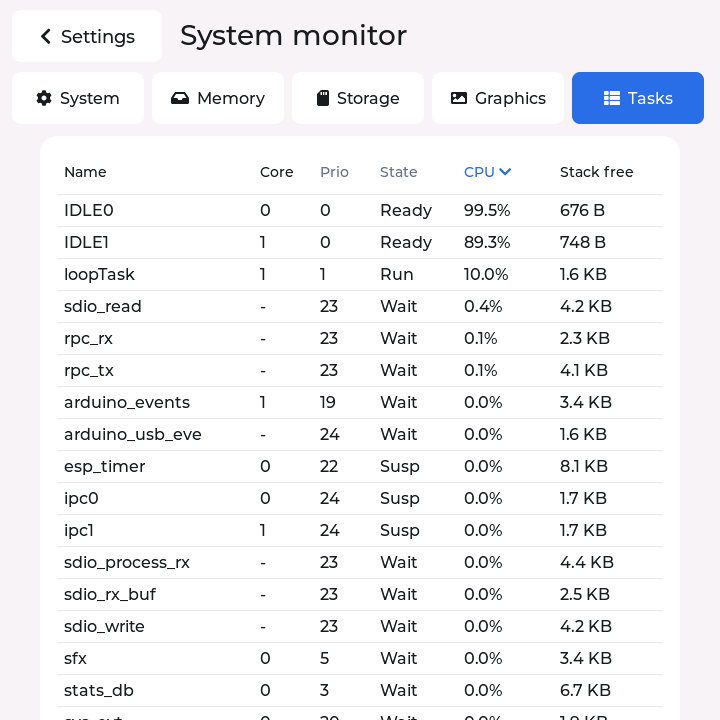
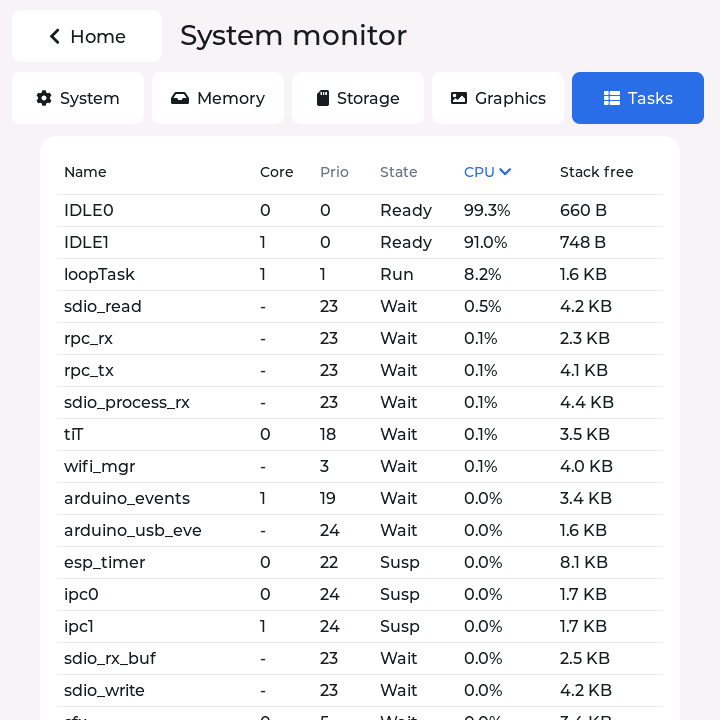
update home page

diff --git a/src/sudoku_ui.c b/src/sudoku_ui.c
@@ -290,8 +290,12 @@ static lv_obj_t *scr_trophy;              /* Trophies: achievements, daily leade
 #define HOME_BTN_H      80
 #define HOME_GAP        14
 #define HOME_MENU_MAX_H 470      /* room under the clock, title and count */
-static lv_obj_t *h_menu;
-static int h_menu_grid;                   /* 1 = grid, 0 = column, -1 = not laid out */
+static lv_obj_t *h_menu;                  /* the pages, side by side: swipe between them */
+static int h_menu_grid;                   /* layout signature (home_layout), -1 = not laid out */
+#define HOME_PAGES_MAX 3
+static lv_obj_t *h_page[HOME_PAGES_MAX], *h_dots;
+static lv_obj_t *h_items[16];             /* the menu buttons, in order */
+static int h_nitems, h_npages;
 static lv_obj_t *h_total, *h_continue, *h_continue_sub, *h_clock, *h_date, *h_player, *h_daily_sub, *h_daily;
 
 /* history screen */
@@ -4325,21 +4329,61 @@ static void coll_click_cb(lv_event_t *e)
     list_reveal_coll(LV_ANIM_ON);
 }
 
-/* Home menu: a column of full-width buttons while they fit between the
- * header and the bottom of the screen, otherwise a grid of two per row. */
+/* the dots under the menu (small circles, the page shown in the accent colour) */
+static void home_dots(void)
+{
+    if (!h_dots) return;
+    lv_obj_set_hidden(h_dots, h_npages < 2);
+    if (h_npages < 2) return;
+    int cur = (int)((lv_obj_get_scroll_x(h_menu) + HOME_GRID_W / 2) / HOME_GRID_W);
+    for (int p = 0; p < HOME_PAGES_MAX; p++) {
+        lv_obj_t *d = lv_obj_get_child(h_dots, p);
+        lv_obj_set_hidden(d, p >= h_npages);
+        lv_obj_set_style_bg_color(d, p == cur ? C_ACCENT : C_CARD2, 0);
+    }
+}
+
+static void home_scroll_cb(lv_event_t *e)
+{
+    home_dots();
+}
+
+/* Home menu: a column of full-width buttons while they fit between the header and the
+ * bottom of the screen; otherwise a grid of two per row; and when even that doesn't fit,
+ * pages of the grid side by side, swiped between, with dots under them. */
 static void home_layout(void)
 {
+    lv_obj_t *vis[16];
     int n = 0;
-    uint32_t cnt = lv_obj_get_child_count(h_menu);
-    for (uint32_t i = 0; i < cnt; i++) n += !lv_obj_is_hidden(lv_obj_get_child(h_menu, i));
-    int grid = n * HOME_BTN_H + (n - 1) * HOME_GAP > HOME_MENU_MAX_H;
-    if (grid == h_menu_grid) return;
-    h_menu_grid = grid;
-    lv_obj_set_flex_flow(h_menu, grid ? LV_FLEX_FLOW_ROW_WRAP : LV_FLEX_FLOW_COLUMN);
-    lv_obj_set_flex_align(h_menu, LV_FLEX_ALIGN_START, LV_FLEX_ALIGN_CENTER, LV_FLEX_ALIGN_CENTER);
-    for (uint32_t i = 0; i < cnt; i++) {
-        lv_obj_set_width(lv_obj_get_child(h_menu, i), grid ? (HOME_GRID_W - HOME_GAP) / 2 : HOME_COL_W);
+    for (int i = 0; i < h_nitems; i++) if (!lv_obj_is_hidden(h_items[i])) vis[n++] = h_items[i];
+    const int rows = (HOME_MENU_MAX_H + HOME_GAP) / (HOME_BTN_H + HOME_GAP);   /* that fit under the header */
+    bool grid = n > rows;
+    int per_page = grid ? rows * 2 : rows;
+    int npages = (n + per_page - 1) / per_page;
+    if (npages > HOME_PAGES_MAX) npages = HOME_PAGES_MAX;
+    int sig = (grid ? 1000 : 0) + n * 10 + npages;      /* (the same layout: nothing to do) */
+    if (sig == h_menu_grid) return;
+    h_menu_grid = sig;
+    h_npages = npages;
+    for (int p = 0; p < HOME_PAGES_MAX; p++) {
+        lv_obj_set_flex_flow(h_page[p], grid ? LV_FLEX_FLOW_ROW_WRAP : LV_FLEX_FLOW_COLUMN);
+        lv_obj_set_flex_align(h_page[p], LV_FLEX_ALIGN_START, LV_FLEX_ALIGN_CENTER, LV_FLEX_ALIGN_START);
+        lv_obj_set_hidden(h_page[p], p >= npages);
     }
+    for (int i = 0; i < h_nitems; i++) {               /* hidden ones wait on page 1 */
+        if (lv_obj_is_hidden(h_items[i])) lv_obj_set_parent(h_items[i], h_page[0]);
+    }
+    for (int k = 0; k < n; k++) {
+        int p = k / per_page;
+        if (p >= npages) p = npages - 1;
+        lv_obj_set_parent(vis[k], h_page[p]);
+        lv_obj_move_to_index(vis[k], -1);              /* (in order on its page) */
+        lv_obj_set_width(vis[k], grid ? (HOME_GRID_W - HOME_GAP) / 2 : HOME_COL_W);
+    }
+    lv_obj_set_scrollable(h_menu, npages > 1);
+    lv_obj_update_layout(h_menu);
+    if (lv_obj_get_scroll_x(h_menu) > (npages - 1) * HOME_GRID_W) lv_obj_scroll_to_x(h_menu, 0, LV_ANIM_OFF);
+    home_dots();
 }
 
 static void refresh_home(void)
@@ -7042,6 +7086,8 @@ static void build_profile(void)
 static void build_game(void);
 static void build_list(void);
 static void build_home(void);
+static void files_open_cb(lv_event_t *e);
+static void sysmon_open_cb(lv_event_t *e);
 static void build_stats(void);
 static void build_settings(void);
 static void build_wifi(void);
@@ -7420,6 +7466,7 @@ static void build_list(void)
 static lv_obj_t *home_btn(lv_obj_t *parent, const char *text, lv_event_cb_t cb, lv_obj_t **sub)
 {
     lv_obj_t *b = make_btn(parent, 0, 0, HOME_COL_W, HOME_BTN_H, NULL, NULL, cb, NULL);
+    if (h_nitems < (int)(sizeof(h_items) / sizeof(h_items[0]))) h_items[h_nitems++] = b;   /* (the menu's order) */
     lv_obj_t *l = make_label(b, &lv_font_montserrat_24, C_TEXT);
     lv_label_set_text(l, text);
     if (sub) {
@@ -7464,37 +7511,69 @@ static void build_home(void)
     h_total = make_label(col, &lv_font_montserrat_16, C_MUTED);
     lv_obj_set_style_margin_bottom(h_total, 22, 0);
 
-    /* the menu: one column, or a grid when they don't all fit (home_layout) */
+    /* the menu: one column, a grid, or pages of the grid to swipe (home_layout) */
     h_menu = lv_obj_create(col);
     lv_obj_remove_style_all(h_menu);
     lv_obj_set_size(h_menu, HOME_GRID_W, LV_SIZE_CONTENT);
-    lv_obj_set_style_pad_row(h_menu, HOME_GAP, 0);
-    lv_obj_set_style_pad_column(h_menu, HOME_GAP, 0);
+    lv_obj_set_flex_flow(h_menu, LV_FLEX_FLOW_ROW);
+    lv_obj_set_scroll_dir(h_menu, LV_DIR_HOR);
+    lv_obj_set_scroll_snap_x(h_menu, LV_SCROLL_SNAP_START);
+    lv_obj_set_scroll_one(h_menu, true);                /* a swipe moves one page */
+    lv_obj_set_scrollbar_mode(h_menu, LV_SCROLLBAR_MODE_OFF);
+    lv_obj_add_event_cb(h_menu, home_scroll_cb, LV_EVENT_SCROLL_END, NULL);
+    for (int p = 0; p < HOME_PAGES_MAX; p++) {
+        h_page[p] = lv_obj_create(h_menu);
+        lv_obj_remove_style_all(h_page[p]);
+        lv_obj_set_size(h_page[p], HOME_GRID_W, LV_SIZE_CONTENT);
+        lv_obj_set_style_pad_row(h_page[p], HOME_GAP, 0);
+        lv_obj_set_style_pad_column(h_page[p], HOME_GAP, 0);
+        lv_obj_set_scrollable(h_page[p], false);
+    }
     h_menu_grid = -1;                                   /* not laid out yet */
+    h_nitems = 0;
+    lv_obj_t *const menu = h_page[0];                   /* (home_layout sorts them onto the pages) */
 
     /* who is playing, first */
-    lv_obj_t *pb = home_btn(h_menu, SYMBOL_USER "  Players", profile_cb, &h_player);   /* sub: "Playing as ..." */
+    lv_obj_t *pb = home_btn(menu, SYMBOL_USER "  Players", profile_cb, &h_player);   /* sub: "Playing as ..." */
     lv_obj_set_style_text_font(lv_obj_get_child(pb, 0), &font_icons_24, 0);
 
     /* hidden when there is no game in progress; the flex column closes up */
-    h_continue = home_btn(h_menu, LV_SYMBOL_PLAY "  Continue", continue_cb, &h_continue_sub);
+    h_continue = home_btn(menu, LV_SYMBOL_PLAY "  Continue", continue_cb, &h_continue_sub);
     lv_obj_set_style_bg_color(h_continue, C_LIST_ACTIVE, 0);
     lv_obj_set_style_text_color(lv_obj_get_child(h_continue, 0), lv_color_white(), 0);
     lv_obj_set_style_text_color(h_continue_sub, lv_color_white(), 0);
     lv_obj_set_style_text_opa(h_continue_sub, LV_OPA_80, 0);
 
-    home_btn(h_menu, LV_SYMBOL_LIST "  Puzzles", puzzles_cb, NULL);
-    h_daily = home_btn(h_menu, LV_SYMBOL_BELL "  Daily puzzle", daily_cb, &h_daily_sub);
+    home_btn(menu, LV_SYMBOL_LIST "  Puzzles", puzzles_cb, NULL);
+    h_daily = home_btn(menu, LV_SYMBOL_BELL "  Daily puzzle", daily_cb, &h_daily_sub);
     lv_obj_set_style_bg_opa(h_daily, LV_OPA_40, LV_STATE_DISABLED);       /* greyed out until the clock is set */
     lv_obj_set_style_text_opa(h_daily, LV_OPA_40, LV_STATE_DISABLED);
-    home_btn(h_menu, LV_SYMBOL_BARS "  Statistics", stats_cb, NULL);
-    lv_obj_t *hb = home_btn(h_menu, SYMBOL_CALENDAR "  History", history_cb, NULL);   /* the calendar of games */
+    home_btn(menu, LV_SYMBOL_BARS "  Statistics", stats_cb, NULL);
+    lv_obj_t *hb = home_btn(menu, SYMBOL_CALENDAR "  History", history_cb, NULL);   /* the calendar of games */
     lv_obj_set_style_text_font(lv_obj_get_child(hb, 0), &font_icons_24, 0);
-    home_btn(h_menu, LV_SYMBOL_VIDEO "  Gameplays", plays_cb, NULL);
-    lv_obj_t *tb = home_btn(h_menu, SYMBOL_TROPHY "  Trophies", trophy_cb, &h_trophy_sub);   /* achievements, leaderboard */
+    home_btn(menu, LV_SYMBOL_VIDEO "  Gameplays", plays_cb, NULL);
+    lv_obj_t *tb = home_btn(menu, SYMBOL_TROPHY "  Trophies", trophy_cb, &h_trophy_sub);   /* achievements, leaderboard */
     lv_obj_set_style_text_font(lv_obj_get_child(tb, 0), &font_icons_24, 0);
     lv_label_set_text(h_trophy_sub, stats_db_ready() ? "Achievements and daily leaderboard" : "Needs a microSD card");
-    home_btn(h_menu, LV_SYMBOL_SETTINGS "  Settings", settings_cb, NULL);
+    home_btn(menu, LV_SYMBOL_SETTINGS "  Settings", settings_cb, NULL);
+    home_btn(menu, LV_SYMBOL_DIRECTORY "  Files", files_open_cb, NULL);              /* the microSD card */
+    lv_obj_t *sb = home_btn(menu, SYMBOL_CHART "  System", sysmon_open_cb, NULL);    /* system monitor */
+    lv_obj_set_style_text_font(lv_obj_get_child(sb, 0), &font_icons_24, 0);
+
+    h_dots = lv_obj_create(scr_home);                    /* page dots (home_dots) */
+    lv_obj_remove_style_all(h_dots);
+    lv_obj_set_size(h_dots, LV_SIZE_CONTENT, 12);
+    lv_obj_set_flex_flow(h_dots, LV_FLEX_FLOW_ROW);
+    lv_obj_set_style_pad_column(h_dots, 12, 0);
+    for (int p = 0; p < HOME_PAGES_MAX; p++) {
+        lv_obj_t *d = lv_obj_create(h_dots);
+        lv_obj_remove_style_all(d);
+        lv_obj_set_size(d, 12, 12);
+        lv_obj_set_style_radius(d, LV_RADIUS_CIRCLE, 0);
+        lv_obj_set_style_bg_opa(d, LV_OPA_COVER, 0);
+    }
+    lv_obj_align(h_dots, LV_ALIGN_BOTTOM_MID, 0, -26);
+    lv_obj_set_hidden(h_dots, true);
 
     lv_obj_t *src = make_label(scr_home, &lv_font_montserrat_12, C_MUTED);
     lv_label_set_text(src, "Puzzles: opensudoku.gitlab.io");
@@ -7690,8 +7769,7 @@ static void sysmon_open_cb(lv_event_t *e)
 static void sysmon_back_cb(lv_event_t *e)
 {
     sysmon_ui_set_shown(false);
-    st_select_tab(ST_DATA);                         /* back to the tab it was opened from */
-    lv_screen_load(scr_settings);
+    lv_screen_load(scr_home);                       /* (opened from the Home menu) */
 }
 
 static void files_open_cb(lv_event_t *e)
@@ -7703,8 +7781,7 @@ static void files_open_cb(lv_event_t *e)
 static void files_back_cb(lv_event_t *e)
 {
     file_ui_set_shown(false);
-    st_select_tab(ST_DATA);
-    lv_screen_load(scr_settings);
+    lv_screen_load(scr_home);                       /* (opened from the Home menu) */
 }
 
 static lv_obj_t *settings_row(lv_obj_t *parent, const char *title, const char *hint)
@@ -7899,14 +7976,6 @@ static void build_settings(void)
     lv_obj_align(st_sd_btn, LV_ALIGN_RIGHT_MID, 0, 0);
     if (s_sd_state == SD_FORMATTING) sd_btn_text("Formatting...", false);
 
-    /* files on the card: the whole card opens the Files screen */
-    r = settings_row(col, "Files", "Browse the card: rename or delete files");
-    lv_obj_set_clickable(r, true);
-    lv_obj_set_style_bg_color(r, C_CARD2, LV_STATE_PRESSED);
-    lv_obj_add_event_cb(r, files_open_cb, LV_EVENT_CLICKED, NULL);
-    chev = make_label(r, &lv_font_montserrat_20, C_MUTED);
-    lv_label_set_text(chev, LV_SYMBOL_RIGHT);
-    lv_obj_align(chev, LV_ALIGN_RIGHT_MID, 0, 0);
 
     r = settings_row(col, "USB drive", "");
     st_usb_hint = lv_obj_get_child(r, 1);
@@ -7935,15 +8004,6 @@ static void build_settings(void)
     lv_obj_t *ex = make_btn(r, 0, 0, 160, 52, LV_SYMBOL_SAVE "  Export", &lv_font_montserrat_18, export_cb, NULL);
     lv_obj_set_style_bg_color(ex, C_CARD2, 0);
     lv_obj_align(ex, LV_ALIGN_RIGHT_MID, 0, 0);
-
-    /* system monitor: the whole card opens it, as Wi-Fi's */
-    r = settings_row(col, "System monitor", "Memory, storage, CPU temperature, tasks, LVGL");
-    lv_obj_set_clickable(r, true);
-    lv_obj_set_style_bg_color(r, C_CARD2, LV_STATE_PRESSED);
-    lv_obj_add_event_cb(r, sysmon_open_cb, LV_EVENT_CLICKED, NULL);
-    chev = make_label(r, &lv_font_montserrat_20, C_MUTED);
-    lv_label_set_text(chev, LV_SYMBOL_RIGHT);
-    lv_obj_align(chev, LV_ALIGN_RIGHT_MID, 0, 0);
 
     r = settings_row(col, "Factory reset", "Settings, Wi-Fi network, players and statistics");
     lv_obj_t *fr = make_btn(r, 0, 0, 160, 52, LV_SYMBOL_WARNING "  Reset", &lv_font_montserrat_18,

diff --git a/src/file_ui.c b/src/file_ui.c
@@ -548,7 +548,7 @@ void file_ui_create(lv_obj_t *scr, lv_event_cb_t back_cb)
     lv_obj_set_style_shadow_width(back, 0, 0);
     lv_obj_set_style_radius(back, 8, 0);
     lv_obj_add_event_cb(back, back_cb, LV_EVENT_CLICKED, NULL);
-    lv_obj_center(label(back, &lv_font_montserrat_18, C_TEXT, LV_SYMBOL_LEFT "  Settings"));
+    lv_obj_center(label(back, &lv_font_montserrat_18, C_TEXT, LV_SYMBOL_LEFT "  Home"));
     lv_obj_set_pos(label(scr, &lv_font_montserrat_28, C_TEXT, "Files"), 180, 20);
 
     lv_obj_t *refresh = icon_btn(scr, LV_SYMBOL_REFRESH, C_TEXT, on_refresh, NULL);

diff --git a/src/sysmon_ui.c b/src/sysmon_ui.c
@@ -817,7 +817,7 @@ void sysmon_ui_create(lv_obj_t *scr, lv_event_cb_t back_cb)
     lv_obj_set_style_shadow_width(back, 0, 0);
     lv_obj_set_style_radius(back, 8, 0);
     lv_obj_add_event_cb(back, back_cb, LV_EVENT_CLICKED, NULL);
-    lv_obj_t *bl = label(back, &lv_font_montserrat_18, C_TEXT, LV_SYMBOL_LEFT "  Settings");
+    lv_obj_t *bl = label(back, &lv_font_montserrat_18, C_TEXT, LV_SYMBOL_LEFT "  Home");
     lv_obj_center(bl);
     lv_obj_t *h = label(scr, &lv_font_montserrat_28, C_TEXT, "System monitor");
     lv_obj_set_pos(h, 180, 20);

diff --git a/src/sysmon_ui.h b/src/sysmon_ui.h
@@ -1,6 +1,6 @@
 #pragma once
 /*
- * System monitor screen (Settings > Data > System monitor), in five tabs
+ * System monitor screen (Home > System), in five tabs
  * (System, Memory, Storage, Graphics, Tasks; the last one open is kept): uptime, CPU
  * temperature and load, internal RAM / PSRAM heap, flash, NVS and microSD
  * usage, LVGL's frame rate and render times, and the FreeRTOS task list with

diff --git a/src/file_ui.h b/src/file_ui.h
@@ -1,6 +1,6 @@
 #pragma once
 /*
- * Files screen (Settings > Data > Files): the microSD card's folders and
+ * Files screen (Home > Files): the microSD card's folders and
  * files, with their size and date. Tap a folder to open it; each row has
  * Rename (on-screen keyboard) and Delete (asks first; folders only when
  * empty). The game's database (sudoku.db and SQLite's journal files next to

diff --git a/docs/features.md b/docs/features.md
@@ -25,7 +25,7 @@ The System monitor's tabs are at the [end of this page](#system-monitor-tabs); S
 ## All features
 
 - **1600 puzzles in flash**: the 16 OpenSudoku collections from <https://opensudoku.gitlab.io/>. These are Easy, Medium, Hard and Very Hard, plus Gnome Sudoku sets 1–3 at each of those levels. Each puzzle is packed into 41 bytes, about 64 KB in total. Every puzzle was checked to have exactly one solution.
-- **Home screen**: the time and date at the top (once Wi-Fi has fetched it), the solved count and big buttons. **Continue** resumes your unfinished game and only appears when there is one; with several (see **Unfinished games**) its line says how many more, and it opens a list to pick from. **Players** (at the top, showing who is playing), **Puzzles**, **Daily puzzle**, **Statistics**, **History**, **Gameplays** and **Settings** open those screens. The buttons stand in one column while they fit; when there are more than fit (with **Continue** showing), they arrange themselves in a grid, two per row.
+- **Home screen**: the time and date at the top (once Wi-Fi has fetched it), the solved count and big buttons. **Continue** resumes your unfinished game and only appears when there is one; with several (see **Unfinished games**) its line says how many more, and it opens a list to pick from. **Players** (at the top, showing who is playing), **Puzzles**, **Daily puzzle**, **Statistics**, **History**, **Gameplays**, **Trophies**, **Settings**, **Files** and **System** (the system monitor) open those screens. The buttons stand in one column while they fit, then in a grid of two per row; when even the grid doesn't fit (five rows: ten buttons), the menu has pages side by side: swipe left or right, and dots under it show which page is shown (with **Continue** showing, **System** is on the second page).
 - **Players**: the **Players** screen lists everyone who plays on the board, with their solved puzzles and solves. Tap a player to play as them; **Add player** and **Rename** ask for a name on an on-screen keyboard (names are unique, ignoring case). The red trash button deletes a player with their statistics, solve history and game in progress, after a confirmation; the last player can't be deleted, and deleting the one playing hands over to the first player left. Each player has their own statistics and their own game in progress, and every solve records who solved it. The Statistics screen has a player dropdown at the top right (person icon and name): it shows whose statistics these are, and picking another player switches to them. Players are kept in `sudoku.db`; without a card there is just one player.
 - **History**: **History** on the home screen shows a calendar (‹ › change the month). Days on which anyone finished a puzzle or started one that is still in progress are highlighted. A small orange badge on each highlighted day shows how many games that was (puzzles solved plus games in progress started that day). Tap a day for who played what: player, level and puzzle number, time taken, mistakes, hints, and when it was started and solved (or "in progress"). Dates are local, in the time zone from Settings, and come from `sudoku.db`; solves from before the clock was set (Wi-Fi/NTP) have no date and don't appear.
 - **New puzzle (generator)**: besides the 1600 built-in puzzles, **Puzzles → New puzzle** makes a fresh one on the board at the level you pick. It fills a random complete grid, then takes clues away in symmetric pairs as long as exactly one solution remains, and grades the result the way a person would solve it: **Easy** and **Medium** need only singles (Easy keeps 36 or more clues), **Hard** needs locked candidates (pointing/claiming) or naked/hidden pairs, **Expert** needs more than that. It takes well under a second; if a level can't be hit after many tries, you get the closest one and a note saying so. **Next** in the "Solved!" dialog makes another one of the same level. Generated puzzles are named "Generated Hard #12" and so on, are saved in `sudoku.db` (table `generated`), and work everywhere the built-in ones do: continue, History, Gameplays, Replay and MP4 export. They don't count in the per-level tables on the Statistics screen. Without a microSD card they last until power-off.
@@ -103,8 +103,8 @@ The System monitor's tabs are at the [end of this page](#system-monitor-tabs); S
   - A fanfare when the puzzle is solved.
   - Turn them on or off under **Settings → Sound effects**.
 - **Settings** is split into tabs under its title: **Network** (Wi-Fi, time zone; the tab Settings opens on), **Display** (dark mode, accent colour, brightness, screen off after, lock screen and PIN, screen-saver clock), **Sound** (sound effects, volume), **Game** (show timer, mistake check) and **Data** (microSD card, USB drive, firmware update, import puzzles, export to CSV, system monitor, factory reset).
-- **System monitor**: **Settings → Data → System monitor** shows, refreshed every second, in five tabs (**System**, **Memory**, **Storage**, **Graphics**, **Tasks**; it reopens on the tab last used): uptime, CPU temperature, the load on each core and the last reset reason; internal RAM and PSRAM (free, used, lowest free, largest block) and DMA-capable RAM; the firmware's size in its app partition, NVS entries and the microSD card's free space; LVGL's frames drawn per second, how busy it is, draw time per frame, objects and timers; and every FreeRTOS task with its core, priority, state, CPU share (of one core) and free stack; tap **Name**, **Core**, **CPU** or **Stack free** above the list to sort by it (busiest first to begin with; tap again to reverse). The **System** tab also shows the board's IP address (while Wi-Fi is connected), its Wi-Fi MAC address (the ESP32-C6's, read once Wi-Fi has connected) and its Ethernet MAC address (the ESP32-P4's own), and graphs of the last hour: CPU load (core 0 and core 1), temperature and the Wi-Fi signal strength (dBm, with a word for it: excellent, good, fair or weak; a gap while not connected); the **Memory** tab one of free internal RAM. A point is taken every 10 seconds from start-up, whether the page is open or not, so the graphs are there when you open it. It only reads, nothing is written.
-- **Files**: **Settings → Data → Files** lists the microSD card's folders and files (folders first, then A–Z; up to 200 per folder) with each file's size and date. Tap a folder to open it, **Up** to go back. Each row has **Rename** (an on-screen keyboard; the name must be new in that folder and can't hold `\ / : * ? " < > |`) and **Delete** (asks first; a folder only when it's empty). The game's database is protected: `sudoku.db` and SQLite's files next to it (`sudoku.db-journal`, `-wal`, `-shm`) show a lock and can't be renamed or deleted, and nothing can be renamed to those names (a stray file named like the journal would be rolled back into the database). While the card is lent to a computer (**USB drive**), the screen says it can't be read. Folders are read by a worker task on core 0, so a folder of many replays doesn't hold up the screen.
+- **System monitor**: **System** on the home screen shows, refreshed every second, in five tabs (**System**, **Memory**, **Storage**, **Graphics**, **Tasks**; it reopens on the tab last used): uptime, CPU temperature, the load on each core and the last reset reason; internal RAM and PSRAM (free, used, lowest free, largest block) and DMA-capable RAM; the firmware's size in its app partition, NVS entries and the microSD card's free space; LVGL's frames drawn per second, how busy it is, draw time per frame, objects and timers; and every FreeRTOS task with its core, priority, state, CPU share (of one core) and free stack; tap **Name**, **Core**, **CPU** or **Stack free** above the list to sort by it (busiest first to begin with; tap again to reverse). The **System** tab also shows the board's IP address (while Wi-Fi is connected), its Wi-Fi MAC address (the ESP32-C6's, read once Wi-Fi has connected) and its Ethernet MAC address (the ESP32-P4's own), and graphs of the last hour: CPU load (core 0 and core 1), temperature and the Wi-Fi signal strength (dBm, with a word for it: excellent, good, fair or weak; a gap while not connected); the **Memory** tab one of free internal RAM. A point is taken every 10 seconds from start-up, whether the page is open or not, so the graphs are there when you open it. It only reads, nothing is written.
+- **Files**: **Files** on the home screen lists the microSD card's folders and files (folders first, then A–Z; up to 200 per folder) with each file's size and date. Tap a folder to open it, **Up** to go back. Each row has **Rename** (an on-screen keyboard; the name must be new in that folder and can't hold `\ / : * ? " < > |`) and **Delete** (asks first; a folder only when it's empty). The game's database is protected: `sudoku.db` and SQLite's files next to it (`sudoku.db-journal`, `-wal`, `-shm`) show a lock and can't be renamed or deleted, and nothing can be renamed to those names (a stray file named like the journal would be rolled back into the database). While the card is lent to a computer (**USB drive**), the screen says it can't be read. Folders are read by a worker task on core 0, so a folder of many replays doesn't hold up the screen.
 - **Light and dark mode**: switch between colour schemes under **Settings → Dark mode**.
 - **Night mode**: **Settings → Display → Night mode** on: between the **Night hours** (22:00 to 07:00 by default, local time; the hours may span midnight) the screens turn dark and the backlight goes down to the **Night brightness** (20 % by default, never above the day's). At the end of the night the day's look comes back. It needs the clock (Wi-Fi). Only the switch-over changes things, so dark mode or brightness changed by hand during the night stay until morning; the Dark mode switch shows what's on screen. Waking from the screen saver uses the night brightness too.
 - **Colour-blind friendly**: **Settings → Display → Colour-blind friendly** swaps red and green, which look alike to most colour-blind people, for the Okabe-Ito colours: mistakes in vermillion (orange-red), solved puzzles and finished boards in bluish green, the game in progress in yellow-orange. They differ from each other and from the blue of your digits in lightness as well as hue. Both light and dark mode have their own shades.
@@ -113,9 +113,17 @@ The System monitor's tabs are at the [end of this page](#system-monitor-tabs); S
 - **Wi-Fi and clock**: on **Settings → Network**, the Wi-Fi row says "Connected  ******" rather than the network's name, so a photo or screenshot doesn't give it away; the eye button next to it shows the name (hidden again the next time Settings opens). **Settings → Wi-Fi** opens a screen with an on/off switch, nearby networks (tap one; secured networks ask for the password on an on-screen keyboard) and **Forget**. Once connected, the time comes from NTP (pool.ntp.org) and the home screen shows it. The board remembers the network and reconnects at start-up. Wi-Fi goes through the board's ESP32-C6 co-processor (ESP-Hosted over SDIO); the Wi-Fi code is shared with the `esp32p4_86box` project.
 - **Time zone**: **Settings → Time zone** lists IANA names such as `Asia/Dubai`, with daylight saving where the zone has it.
 
+## Home menu, second page
+
+With **Continue** showing there are eleven buttons: the menu turns into pages. Swipe left for **System**.
+
+| **Home, page 2** |
+|---|
+| ![Home, the menu's second page](screenshots/home-page2.png) |
+
 ## System monitor tabs
 
-**Settings → Data → System monitor**, refreshed every second (see **System monitor** above).
+**System** on the home screen (the menu's second page while **Continue** shows), refreshed every second (see **System monitor** above).
 
 | **System** | **Memory** |
 |---|---|

diff --git a/docs/data.md b/docs/data.md
@@ -4,11 +4,11 @@
 
 Where the game keeps its data (`sudoku.db` on the microSD card), and the maintenance tools under **Settings → Data**.
 
-| **Settings → Data** | **Files** | **System monitor → Storage** |
+| **Settings → Data** | **Files** (home screen) | **System → Storage** (home screen) |
 |---|---|---|
 | ![Settings, Data tab](screenshots/settings-data.png) | ![Files](screenshots/files.png) | ![System monitor, Storage tab](screenshots/sysmon-storage.png) |
 
-**Files** (Settings → Data) renames and deletes files on the card from the board itself; `sudoku.db` is locked there. See [Features](features.md) for the details.
+**Files** on the home screen renames and deletes files on the card from the board itself; `sudoku.db` is locked there. See [Features](features.md) for the details.
 
 - **Game data on the microSD card**: statistics, the game in progress and the settings are kept in `sudoku.db`, a SQLite 3 database in the root of a FAT32 microSD card that is inserted at start-up. Nothing is written to the board's flash for them; only the Wi-Fi network and on/off switch stay on the board (NVS). At start-up the board shows "Starting..." while it opens the database (about a second), then builds the screens with its settings. The **Statistics** screen reads the database with SQL queries; the puzzle list, the home screen and "New best!" use a copy in RAM loaded at start-up. Without a card, the game runs on defaults and keeps changes, the game in progress and solves only until power-off; the "Solved!" dialog warns about this and Settings shows it under **microSD card**. A FAT32 card without `sudoku.db` (a new or empty card) gets a skeleton database at start-up: all tables, the current settings and the game in progress, and no statistics. The screens then show exactly what the database holds. A card without a FAT32 filesystem is not formatted automatically; Settings offers **Format**. (A database from a build before settings moved to the card gets the board's older statistics merged in once.) Open it on a computer with `sqlite3 sudoku.db`:
   - `players`: `id`, `name`, `created_at`, `color` (0–7; NULL = by id). Statistics and saved games that existed before players were added belong to player 1, "Player 1".

diff --git a/docs/how-to-play.md b/docs/how-to-play.md
@@ -53,7 +53,8 @@
 | Time zone                       | **Settings → Time zone**                         |
 | Back up / restore `sudoku.db`  | **Settings → USB drive → Connect**; plug into USB OTG |
 | Format the microSD card         | **Settings → microSD card → Format**, confirm    |
-| Rename or delete a file on the card | **Settings → Data → Files**, then the pencil or the bin on its row |
+| Rename or delete a file on the card | **Files** on the home screen, then the pencil or the bin on its row |
+| Memory, temperature, tasks       | **System** on the home screen (swipe the menu to its second page if needed) |
 
 The small number on each pad button is how many of that digit are still to place. Red digits break a row, column or box rule. The puzzle is solved when every cell is filled and nothing is red. Each puzzle has exactly one solution, so the solution is always the intended one.
 
